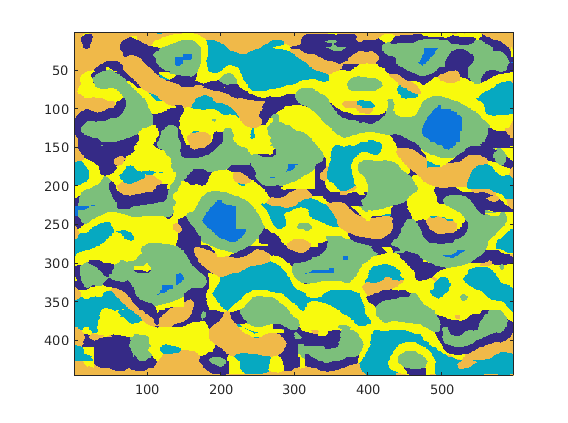
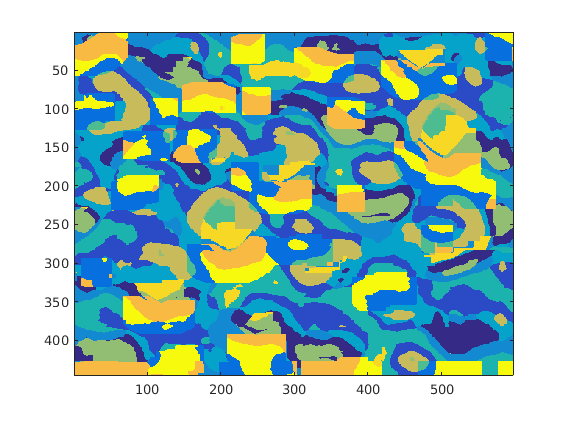
new results

diff --git a/segmentMain.m b/segmentMain.m
@@ -13,7 +13,7 @@ L = im2double(imread('images/car.jpg'));
 % Parameters to be tuned.
 k = 14;
 winSize = 35;
-numColorRegions = 12;
+numColorRegions = 4;
 numTextureRegions = 12;
 
 % Load the filter bank.
@@ -93,9 +93,9 @@ close
 disp('Comparing window sizes...')
 win1 = 5; % smaller window size
 win2 = 65; % larger window size
-[~, textureLabelIm] = compareSegmentations(I, F, T, win1, ...
+[~, textureSmallWin] = compareSegmentations(I, F, T, win1, ...
   numColorRegions, numTextureRegions);
-[~, textureLabelIm] = compareSegmentations(I, F, T, win2, ...
+[~, textureLargeWin] = compareSegmentations(I, F, T, win2, ...
   numColorRegions, numTextureRegions);
 figure;
 imagesc(textureSmallWin); print('images/gumballs_small.png', '-dpng', '-r0');
@@ -105,9 +105,9 @@ close
 
 disp('Comparing different sets of filters...')
 figure;
-[colorLabelIm, textureLabelIm] = compareSegmentations(I, F, T, winSize, ...
+[~, textureFullset] = compareSegmentations(I, F, T, winSize, ...
   numColorRegions, numTextureRegions);
-[colorLabelIm, textureLabelIm] = compareSegmentations(I, F2, T2, winSize, ...
+[~, textureSubset] = compareSegmentations(I, F2, T2, winSize, ...
   numColorRegions, numTextureRegions);
 imagesc(textureFullset); print('images/gumballs_fullset.png', '-dpng', '-r0');
 imagesc(textureSubset); print('images/gumballs_subset.png', '-dpng', '-r0');
